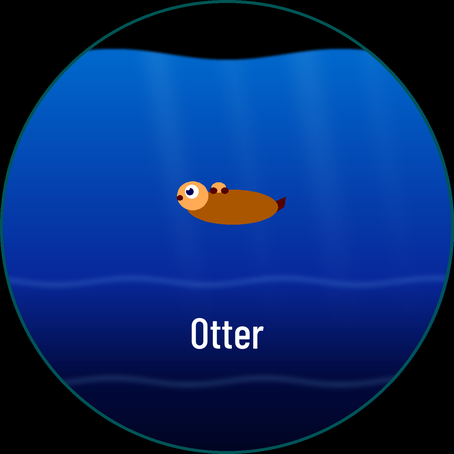
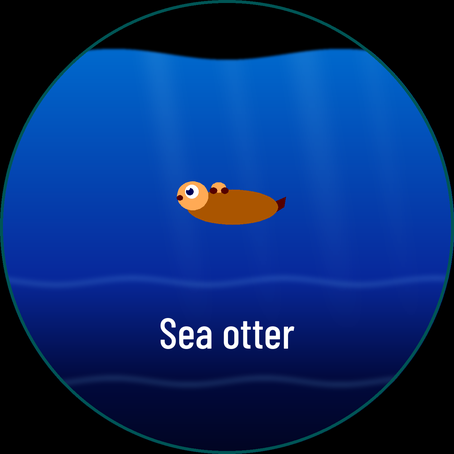
Mila: Ebb dieren v4, alle 24 getekend in de volgorde van Gijs' EbbTrouw (zeekomkommer op plek 23)
Claude-Session: https://claude.ai/code/session_01RMWUyfvwA2GaFLXeLzYkb2

Changed region(s): [[0.3392, 0.6784, 0.6476, 0.7709]]

diff --git a/ontwerp/garmin/bron/ebb_dieren_v4.py b/ontwerp/garmin/bron/ebb_dieren_v4.py
@@ -21,6 +21,14 @@ v3.TINT.update({
     'inktvis':((255,170,255),(255,255,255), (170,85,170)),
     'kreeft': ((170,0,0),    (255,85,85),   (85,0,0)),
     'otter':  ((170,85,0),   (255,170,85),  (85,0,0)),
+    'garnaal':((255,170,170),(255,255,255), (255,85,85)),
+    'maanvis':((170,170,255),(255,255,255), (85,85,170)),
+    'haai':   ((85,85,170),  (255,255,255), (0,0,85)),
+    'zwaard': ((85,85,255),  (255,255,255), (0,0,85)),
+    'manta':  ((85,85,85),   (255,255,255), (0,0,0)),
+    'orka':   ((0,0,0),      (255,255,255), (85,85,85)),
+    'narwal': ((170,170,255),(255,255,255), (85,85,170)),
+    'reuzeninkt': ((170,0,85), (255,85,170), (85,0,0)),
 })
 _oud = v3.dier_delen
 
@@ -155,6 +163,66 @@ def nieuwe_delen(soort):
         neus = ellips(-0.97, -0.08, 0.06, 0.05)
         return [(staart,'donker'), (lijf,'lijf'), (kop,'licht'), (neus,'donker'), (schelp,'licht'),
                 (pootjes[0],'donker'), (pootjes[1],'donker')], [(-0.74,-0.20)]
+    if soort == 'garnaal':
+        lijf = bez((-0.70,-0.10),(-0.20,-0.55),(0.50,-0.20),10) + bez((0.50,-0.20),(0.80,0.10),(0.55,0.45),6) \
+             + bez((0.55,0.45),(0.35,0.20),(0.20,0.10),4) + bez((0.20,0.10),(-0.30,0.15),(-0.70,0.10),8)
+        segs = [([(x,-0.38+abs(x)*0.3),(x+0.05,-0.38+abs(x)*0.3),(x+0.05,0.12),(x,0.12)],'donker') for x in (-0.15, 0.10, 0.32)]
+        staart = [(0.55,0.40),(0.85,0.55),(0.40,0.65)]
+        voel = [(poot(-0.65,-0.10,-0.95,-0.60,-0.60,-0.95,0.035),'donker'), (poot(-0.60,-0.05,-1.0,-0.30,-1.05,-0.70,0.035),'donker')]
+        pootjes = [(poot(x,0.10,x-0.05,0.30,x-0.12,0.42,0.05),'donker') for x in (-0.40,-0.20,0.0)]
+        return voel + pootjes + [(staart,'lijf'), (lijf,'lijf')] + segs, [(-0.48,-0.18)]
+    if soort == 'maanvis':
+        lijf = ellips(0, 0, 0.62, 0.62)
+        vin_b = [(0.05,-0.55),(0.28,-1.0),(0.42,-0.50)]; vin_o = [(0.05,0.55),(0.28,1.0),(0.42,0.50)]
+        staart = [(0.55,-0.40),(0.78,-0.30),(0.78,0.30),(0.55,0.40)]
+        buik = ellips(0, 0.10, 0.50, 0.42, 20, 160)
+        mond = ellips(-0.60, 0.05, 0.06, 0.05)
+        return [(vin_b,'donker'), (vin_o,'donker'), (staart,'donker'), (lijf,'lijf'), (buik,'licht'), (mond,'donker')], [(-0.30,-0.15)]
+    if soort == 'haai':
+        lijf = bez((-1.0,0.05),(-0.60,-0.40),(0.30,-0.25),10) + bez((0.30,-0.25),(0.65,-0.15),(0.80,-0.02),6) \
+             + bez((0.80,-0.02),(0.50,0.25),(0.0,0.25),6) + bez((0.0,0.25),(-0.60,0.25),(-1.0,0.05),8)
+        buik = bez((-0.95,0.08),(-0.40,0.02),(0.30,0.15),6) + bez((0.30,0.15),(-0.40,0.27),(-0.95,0.10),6)
+        vin = [(-0.20,-0.32),(0.0,-0.80),(0.20,-0.28)]
+        staart = [(0.75,-0.05),(1.05,-0.50),(0.98,-0.02),(1.02,0.30)]
+        flip = [(-0.40,0.20),(-0.15,0.52),(-0.05,0.22)]
+        kieuw = [([(x,-0.08),(x+0.03,-0.08),(x+0.03,0.10),(x,0.10)],'donker') for x in (-0.50,-0.42)]
+        lach = bez((-0.92,0.10),(-0.80,0.18),(-0.66,0.10),5) + bez((-0.66,0.10),(-0.80,0.14),(-0.92,0.12),5)
+        return [(staart,'lijf'), (vin,'lijf'), (flip,'donker'), (lijf,'lijf'), (buik,'licht')] + kieuw + [(lach,'donker')], [(-0.70,-0.10)]
+    if soort == 'zwaard':
+        lijf = ellips(0, 0, 0.60, 0.26)
+        zwaard = [(-0.55,-0.04),(-1.15,0.02),(-0.55,0.06)]
+        buik = ellips(0, 0.06, 0.52, 0.16, 0, 180)
+        zeil = bez((-0.30,-0.20),(-0.10,-0.85),(0.35,-0.22),8)
+        staart = [(0.55,0),(0.95,-0.45),(0.80,0),(0.95,0.45)]
+        return [(staart,'donker'), (zeil,'donker'), (zwaard,'donker'), (lijf,'lijf'), (buik,'licht')], [(-0.36,-0.06)]
+    if soort == 'manta':
+        lijf = bez((-1.0,0.0),(-0.50,-0.45),(-0.12,-0.25),8) + [(-0.18,-0.50),(-0.06,-0.30),(0.06,-0.30),(0.18,-0.50)] \
+             + bez((0.12,-0.25),(0.50,-0.45),(1.0,0.0),8) + bez((1.0,0.0),(0.40,0.12),(0.10,0.35),6) + bez((-0.10,0.35),(-0.40,0.12),(-1.0,0.0),6)
+        staart = [(-0.03,0.30),(0.03,0.30),(0.02,0.95),(-0.02,0.95)]
+        buik = ellips(0, 0.05, 0.36, 0.16, 0, 180)
+        vlek = [ellips(-0.45,-0.12,0.08,0.05), ellips(0.45,-0.12,0.08,0.05)]
+        return [(staart,'lijf'), (lijf,'lijf'), (buik,'licht'), (vlek[0],'licht'), (vlek[1],'licht')], [(-0.16,-0.14), (0.16,-0.14)]
+    if soort == 'orka':
+        lijf = bez((-1.0,0.05),(-0.70,-0.40),(0.30,-0.28),10) + bez((0.30,-0.28),(0.65,-0.15),(0.78,0.0),6) \
+             + bez((0.78,0.0),(0.40,0.30),(-0.20,0.30),6) + bez((-0.20,0.30),(-0.80,0.30),(-1.0,0.05),8)
+        buik = bez((-0.95,0.12),(-0.40,0.05),(0.20,0.18),6) + bez((0.20,0.18),(-0.40,0.32),(-0.95,0.16),6)
+        oogvlek = ellips(-0.52, -0.14, 0.14, 0.07)
+        vin = [(-0.10,-0.34),(0.05,-0.95),(0.22,-0.30)]
+        staart = [(0.72,-0.04),(1.05,-0.35),(0.98,0.0),(1.05,0.30)]
+        flip = [(-0.45,0.22),(-0.25,0.58),(-0.10,0.26)]
+        return [(staart,'lijf'), (vin,'lijf'), (flip,'lijf'), (lijf,'lijf'), (buik,'licht'), (oogvlek,'licht')], [(-0.50,-0.14)]
+    if soort == 'narwal':
+        lijf = bez((-0.85,0.0),(-0.75,-0.40),(0.10,-0.30),10) + bez((0.10,-0.30),(0.60,-0.15),(0.75,0.0),6) \
+             + bez((0.75,0.0),(0.40,0.30),(-0.20,0.30),6) + bez((-0.20,0.30),(-0.80,0.28),(-0.85,0.0),8)
+        buik = ellips(-0.10, 0.14, 0.55, 0.12)
+        tand = [(-0.80,-0.14),(-1.25,-0.42),(-0.78,-0.06)]
+        vlek = [(ellips(x, -0.12 + 0.03*k, 0.05, 0.04), 'donker') for k, x in enumerate((-0.20, 0.05, 0.30, 0.50))]
+        staart = [(0.70,-0.04),(1.02,-0.32),(0.95,0.0),(1.02,0.28)]
+        flip = [(-0.40,0.22),(-0.22,0.52),(-0.10,0.24)]
+        return [(staart,'lijf'), (flip,'donker'), (tand,'licht'), (lijf,'lijf'), (buik,'licht')] + vlek, [(-0.58,-0.10)]
+    if soort == 'reuzeninkt':
+        delen, ogen = nieuwe_delen('inktvis')
+        return delen + [(poot(-0.30,0.05,-0.80,0.60,-0.55,1.05,0.07),'donker'), (poot(0.30,0.05,0.80,0.60,0.55,1.05,0.07),'donker')], ogen
     return _oud(soort)
 
 SLAPERIG = {'komkom'}
@@ -187,8 +255,11 @@ def dier_beeld(soort, s, kleur_override=None, hoek=0):
 v3.dier_delen = nieuwe_delen
 v3.dier_beeld = dier_beeld
 
-ALLE = [('vis','Fish'), ('kwal','Jellyfish'), ('krab','Crab'), ('pad','Turtle'), ('paard','Seahorse'),
-        ('ster','Starfish'), ('octo','Octopus'), ('kogel','Pufferfish'), ('clown','Clownfish'), ('komkom','Sea cucumber'), ('rog','Ray'), ('dolfijn','Dolphin'), ('zeehond','Seal'), ('inktvis','Squid'), ('kreeft','Lobster'), ('otter','Otter'), ('walvis','Whale')]
+ALLE = [('vis','Fish'), ('garnaal','Shrimp'), ('kwal','Jellyfish'), ('pad','Turtle'), ('krab','Crab'), ('paard','Seahorse'),
+        ('ster','Starfish'), ('clown','Clownfish'), ('kogel','Pufferfish'), ('octo','Octopus'), ('inktvis','Squid'), ('rog','Ray'),
+        ('zeehond','Seal'), ('dolfijn','Dolphin'), ('zwaard','Swordfish'), ('otter','Sea otter'), ('manta','Manta'), ('haai','Shark'),
+        ('maanvis','Sunfish'), ('orka','Orca'), ('narwal','Narwhal'), ('reuzeninkt','Giant squid'), ('komkom','Sea cucumber'), ('walvis','Whale')]
+RESERVE = [('kreeft','Lobster')]
 
 def dier_scherm(soort, naam):
     def fn(D):
@@ -206,15 +277,15 @@ def dier_scherm(soort, naam):
 if __name__ == '__main__':
     v3.FONT = sys.argv[2]; uit = sys.argv[1]; os.makedirs(uit, exist_ok=True)
     from ebb_blad_v3 import f
-    gap = 24; cel = 454 + 16 + 260; kol = 4; rijen = (len(ALLE)+kol-1)//kol
+    gap = 24; cel = 454 + 16 + 260; kol = 6; rijen = (len(ALLE)+kol-1)//kol
     blad = Image.new('RGB', (gap + kol*(cel+gap), 100 + rijen*(454+60+gap)), (14,16,24)); d = ImageDraw.Draw(blad)
-    d.text((gap, 28), f'Ebb dieren v4 (Mila): {len(ALLE)} van de 24, zelfde stijl, links 454 AMOLED, rechts 260 MIP', font=f(44), fill=(220,230,240))
+    d.text((gap, 28), f'Ebb dieren v4 (Mila): alle 24 in de volgorde van de sea log, zelfde stijl, links 454 AMOLED, rechts 260 MIP', font=f(44), fill=(220,230,240))
     rap = []
     for i, (soort, naam) in enumerate(ALLE):
         r, k = divmod(i, kol); x = gap + k*(cel+gap); y = 100 + r*(454+60+gap)
         a = teken(dier_scherm(soort, naam), 454); b = teken(dier_scherm(soort, naam), 260)
         a.save(f'{uit}/dier-{soort}-454.png'); b.save(f'{uit}/dier-{soort}-260.png')
         blad.paste(a, (x, y)); blad.paste(b, (x+470, y+194))
-        d.text((x, y+460), f'{24 if soort == "walvis" else i+1}. {naam}', font=f(30), fill=(170,190,210))
+        d.text((x, y+460), f'{i+1}. {naam}', font=f(30), fill=(170,190,210))
         rap.append(f'{naam:14s} pixels buiten MIP op 260: {niet_mip(b)}')
     blad.save(f'{uit}/../ebb-dieren-v4.png'); print('\n'.join(rap))
